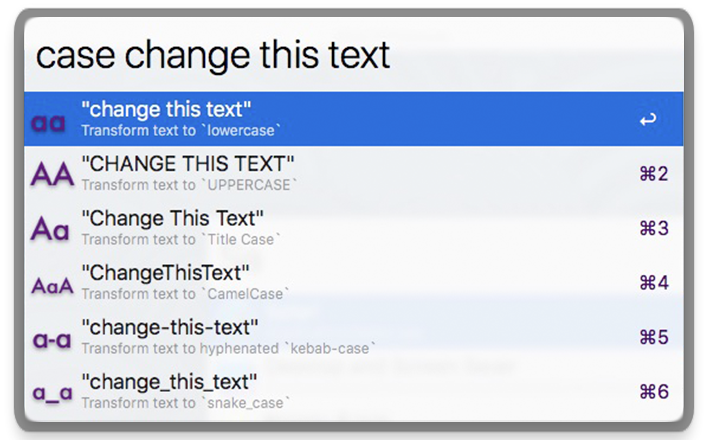
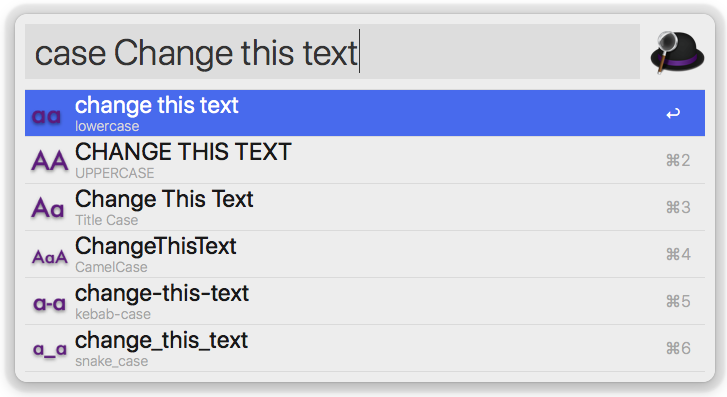
Simplify previews
Changed item titles to from sentences to just the name of the case.
Removed quotes from previews.
Kept workflow name as simply "Change Case".
Removed default keybinding (conflicted with other keybindings).

diff --git a/changecase.py b/changecase.py
@@ -39,33 +39,33 @@ variations = {
 print """<?xml version="1.0"?>
 <items>
   <item arg="%(lower)s">
-    <title>"%(lower)s"</title>
-    <subtitle>Transform text to `lowercase`</subtitle>
+    <title>%(lower)s</title>
+    <subtitle>lowercase</subtitle>
     <icon>lowercase.png</icon>
   </item>
   <item arg="%(upper)s">
-    <title>"%(upper)s"</title>
-    <subtitle>Transform text to `UPPERCASE`</subtitle>
+    <title>%(upper)s</title>
+    <subtitle>UPPERCASE</subtitle>
     <icon>uppercase.png</icon>
   </item>
   <item arg="%(title)s">
-    <title>"%(title)s"</title>
-    <subtitle>Transform text to `Title Case`</subtitle>
+    <title>%(title)s</title>
+    <subtitle>Title Case</subtitle>
     <icon>titlecase.png</icon>
   </item>
   <item arg="%(camel)s">
-    <title>"%(camel)s"</title>
-    <subtitle>Transform text to `CamelCase`</subtitle>
+    <title>%(camel)s</title>
+    <subtitle>CamelCase</subtitle>
     <icon>camelcase.png</icon>
   </item>
   <item arg="%(kebab)s">
-    <title>"%(kebab)s"</title>
-    <subtitle>Transform text to hyphenated `kebab-case`</subtitle>
+    <title>%(kebab)s</title>
+    <subtitle>kebab-case</subtitle>
     <icon>kebabcase.png</icon>
   </item>
   <item arg="%(snake)s">
-    <title>"%(snake)s"</title>
-    <subtitle>Transform text to `snake_case`</subtitle>
+    <title>%(snake)s</title>
+    <subtitle>snake_case</subtitle>
     <icon>snakecase.png</icon>
   </item>
 

diff --git a/README.md b/README.md
@@ -2,7 +2,7 @@
 
 Changes the case of text selected, provided, or on the clipboard to UPPERCASE, lowercase, Title Case, CamelCase, kebab-case, or snake_case.
 
-[Download the workflow](https://github.com/gillibrand/alfred-change-case/blob/master/Change%20Case.alfredworkflow?raw=true).
+[Download the workflow](https://github.com/gillibrand/alfred-change-case/blob/master/Change%20Case.alfredworkflow).
 
 ![Screenshot](changecase.png)
 
@@ -12,21 +12,12 @@ Change the case of text on the keyboard with the keyword `case`. All six styles 
 
 Optionally, any text typed after `case` will be changed instead of the clipboard.
 
-Manage the keybinding (set to `Cmd+Opt+Ctrl+Shift+t` by default) to transform the currently selected text.
-
 ## Version History
 
 ### 9/9/2018
 
-- Updated icons and added additional cases to match original style 👍
-- Added CamelCase, kebab-case, and snake_case to icons.acorn layered file
-
-### 8/21/2018
-
 - Added CamelCase, kebab-case, and snake_case options
-- Updated/Removed Icons
-- Added keybinding for text selection transformation
-- Added additional keywords "tt" and "transform" to default workflow options
+- Added additional keywords "tt" and "transform"
 
 ### 4/19/2013
 
